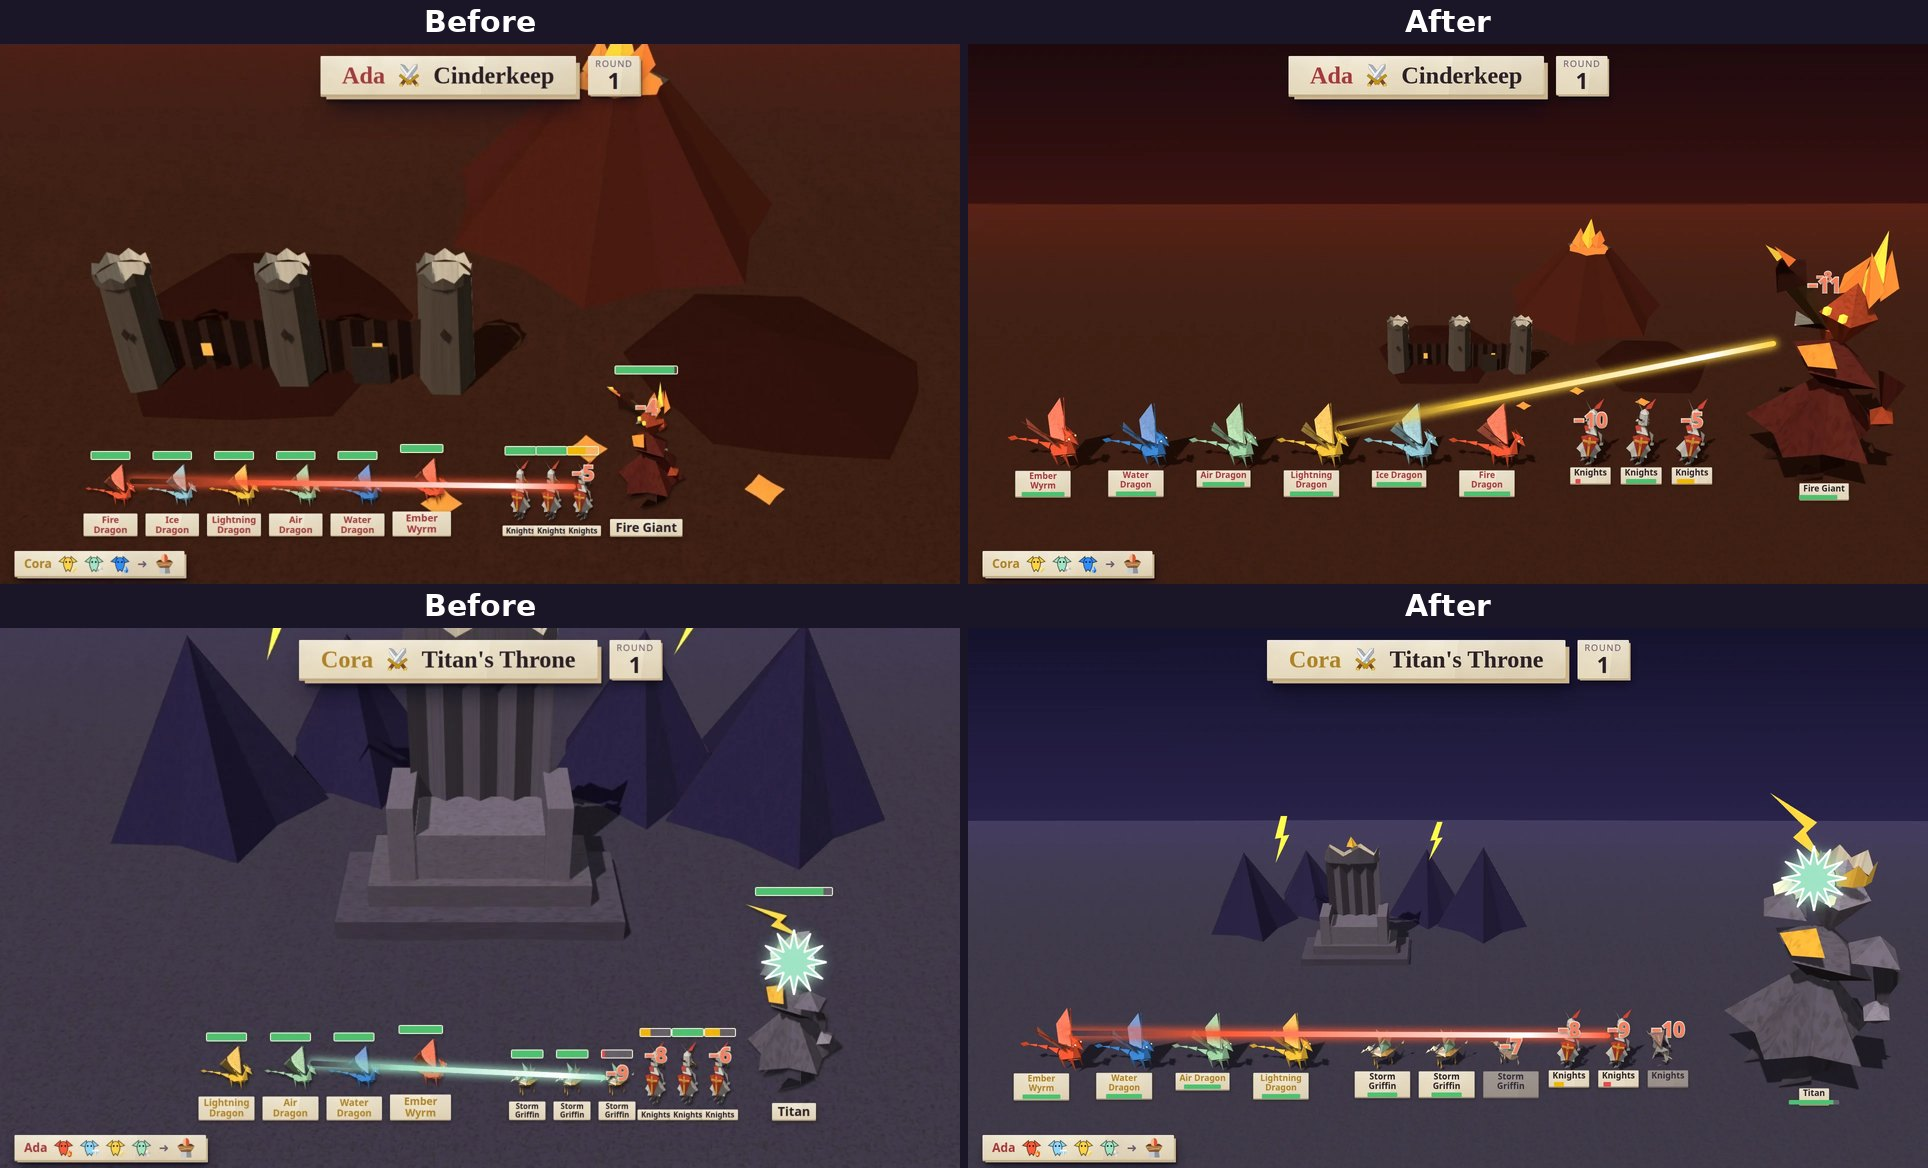
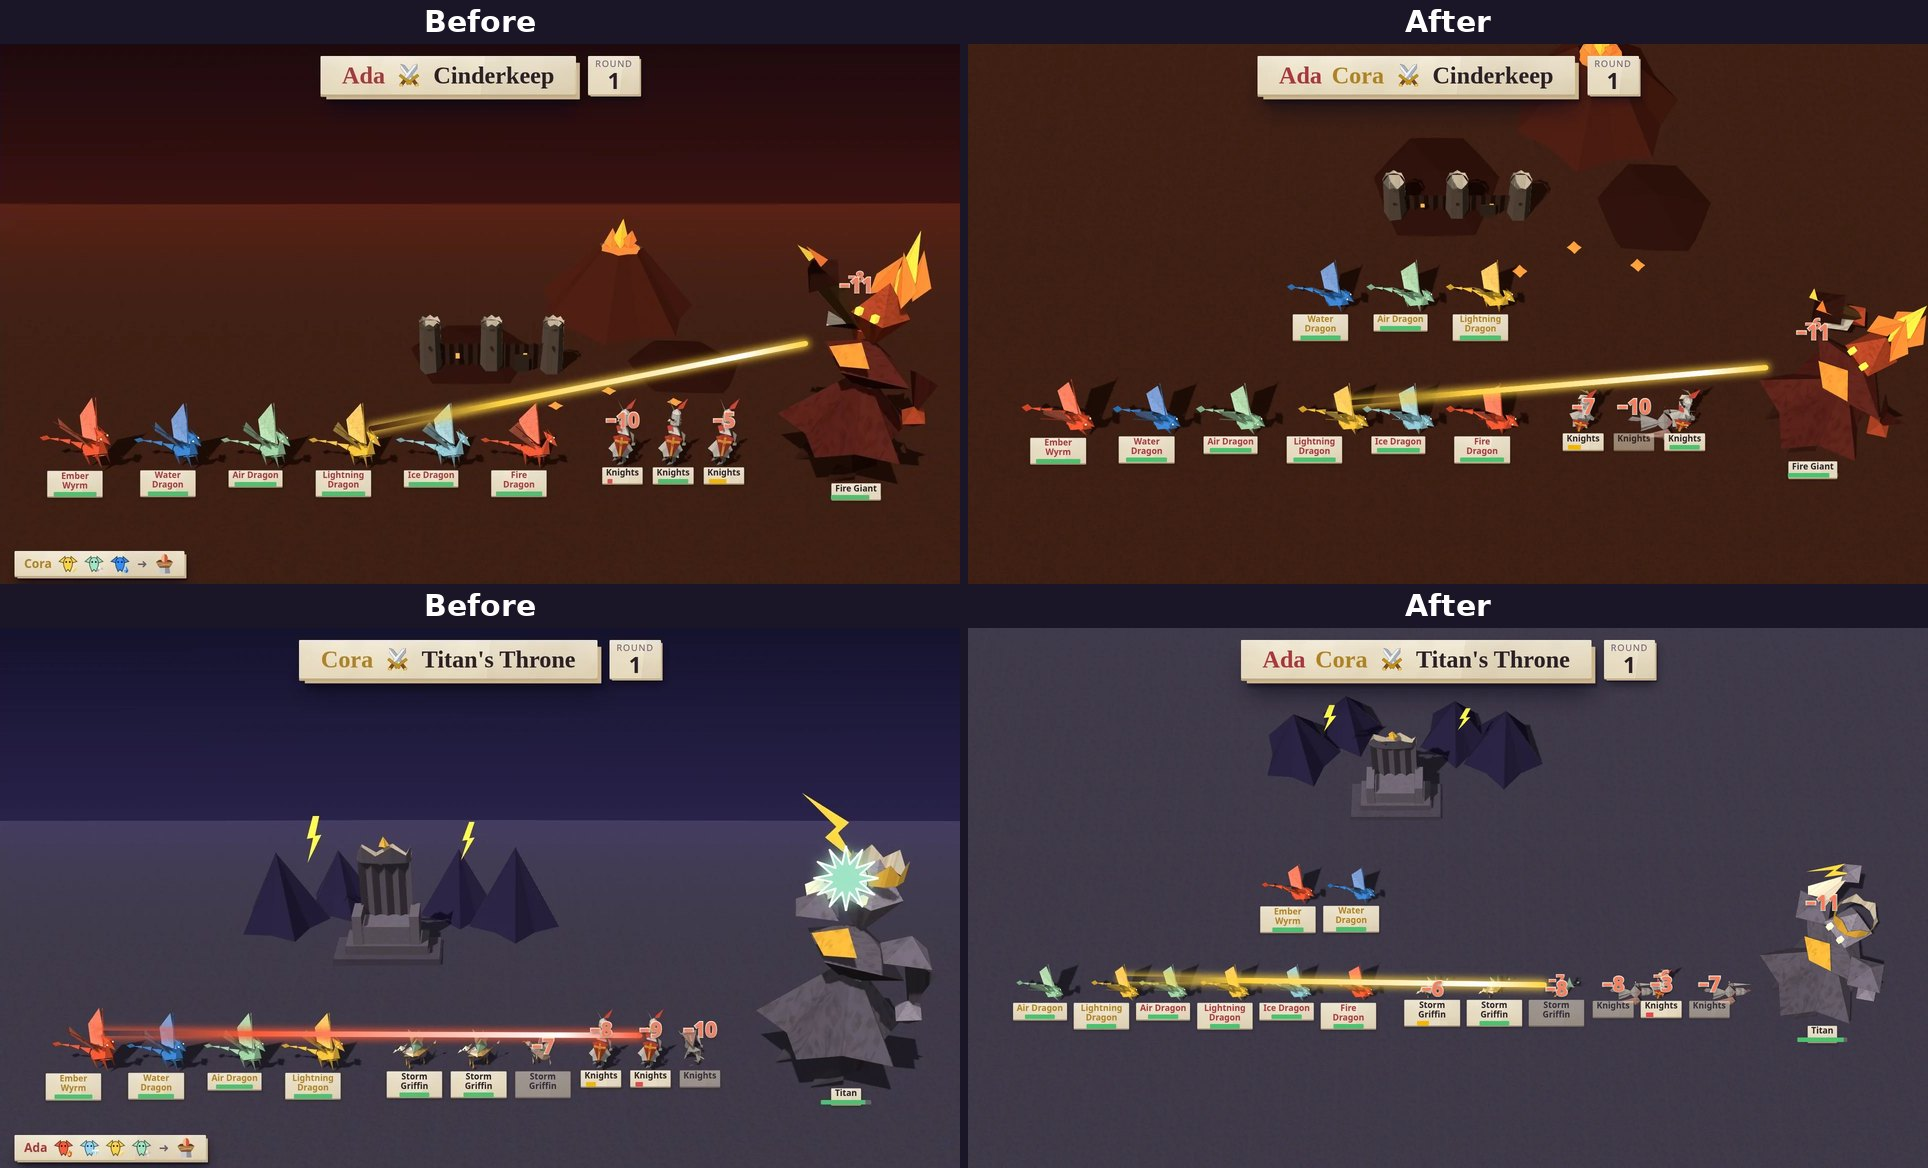
Fight scene: seen through the map's camera, so nothing stands in front of anything
The fight looked down at 36 degrees on a TV; it now uses the map's camera
(its 26-degree view, looking down at CAMERA_TILT) on every screen, as the
board does, so no fighter hides another. Fallen fighters fall sideways,
which reads from above (a boss onto its back); the lines leave room for
the scoring's crowns and the fits for falls.

Claude-Session: https://claude.ai/code/session_01MEmTqG7ANFyPi7sTyCCKbk

diff --git a/web/board3d.ts b/web/board3d.ts
@@ -34,12 +34,8 @@ const GROUND = TOP + PLATE_H; // where a building stands on its plate
 // from top-down. Lower shows more of the models' fronts and
 // sides; straight down would flatten them.
 const CAMERA_TILT = 1.13;
-// How far the fight's camera looks down on a wide screen (radians; about
-// 36 degrees). The map's is CAMERA_TILT; the fight keeps lower, so the
-// places' walls and the fighters' faces still show. On a screen held
-// upright it looks down at CAMERA_TILT, as the map does, so the files going
-// back aren't squashed together.
-const STAGE_TILT = 0.63;
+// The map camera's field of view, up and down (degrees). A fight is seen through the same camera.
+const MAP_FOV = 26;
 
 // Paper colours. Terrain is the phone map's colours, so the two maps match.
 const WALL = '#f1e8d4';
@@ -1850,7 +1846,7 @@ export class Board3D {
   readonly el: HTMLDivElement;
   private renderer: THREE.WebGLRenderer;
   private scene = new THREE.Scene();
-  private camera = new THREE.PerspectiveCamera(26, 16 / 9, 0.1, 200);
+  private camera = new THREE.PerspectiveCamera(MAP_FOV, 16 / 9, 0.1, 200);
   private sun: THREE.DirectionalLight;
   private world = new THREE.Group();
   private mapSig = '';
@@ -3346,6 +3342,7 @@ type Standing = {
 // 3, the Fire Giant 5.4 and the Titan 7: the bosses loom.
 const FIG_K = 1;
 const BOSS_LOOM = 1.35;
+const CROWN_PX = 44; // the crown over a head, at the scoring (style.css .fig-crown)
 const LUNGE_S = 0.3, FLINCH_S = 0.25, FALL_S = 0.5;
 const GREY = new THREE.Color('#8a8790');
 
@@ -3356,8 +3353,9 @@ const GREY = new THREE.Color('#8a8790');
 // stands in lines of up to six across, one behind another, and a boss (four
 // times any other defender's health) at the far end of its front line; on
 // one held upright, in files of up to four going back, side by side, and a
-// boss behind them. The camera looks down at it (STAGE_TILT, or
-// CAMERA_TILT upright) from as far back as lets every fighter, with room
+// boss behind them. It's seen through the map's camera (its field of view,
+// looking down at CAMERA_TILT), so it reads as the board does: nothing
+// stands in front of anything. The camera is as far back as lets every fighter, with room
 // for its plate, fit between `safe.top` and `safe.bottom` (fractions of the
 // height kept clear for the page's header and footer). Labels are the
 // page's (tv.ts), pinned over each model by anchor().
@@ -3365,7 +3363,7 @@ export class FightStage {
   readonly el: HTMLCanvasElement;
   private renderer: THREE.WebGLRenderer;
   private scene = new THREE.Scene();
-  private camera = new THREE.PerspectiveCamera(34, 16 / 9, 0.1, 300);
+  private camera = new THREE.PerspectiveCamera(MAP_FOV, 16 / 9, 0.1, 600);
   private figs = new Map<string, Standing>();
   private clock = new THREE.Clock();
   private sun = new THREE.DirectionalLight('#fff1dc', 3.4);
@@ -3380,14 +3378,10 @@ export class FightStage {
   private left: Standing[] = [];
   private foes: Standing[] = [];
   private boss: Standing | null = null;
-  // How far it looks down: on a screen held upright, as steeply as the map
-  // (the files go back, and a shallower look would squash them together).
-  private tilt: number;
 
   constructor(place: string, left: FightFigure[], right: FightFigure[], upright: boolean, safe: { top: number; bottom: number }) {
     this.upright = upright;
     this.safe = safe;
-    this.tilt = upright ? CAMERA_TILT : STAGE_TILT;
     this.renderer = new THREE.WebGLRenderer({ antialias: true, preserveDrawingBuffer: true });
     this.renderer.setPixelRatio(Math.min(devicePixelRatio, 2));
     this.renderer.shadowMap.enabled = true;
@@ -3515,7 +3509,7 @@ export class FightStage {
       // Behind its files, across the middle of its side.
       const xs = this.foes.map((f) => f.x);
       boss.x = xs.length ? (Math.min(...xs) + Math.max(...xs)) / 2 : 1.2 + boss.rx;
-      boss.z = Math.min(0, ...this.foes.map((f) => f.z - f.rz - f.h / Math.tan(this.tilt) * 0.3)) - boss.rz - boss.label.h * boss.u;
+      boss.z = Math.min(0, ...this.foes.map((f) => f.z - f.rz - f.h / Math.tan(CAMERA_TILT) * 0.3)) - boss.rz - boss.label.h * boss.u;
     }
     const all = [...this.figs.values()];
     const shift = -3 - Math.min(...all.map((f) => f.z - f.rz));
@@ -3534,11 +3528,12 @@ export class FightStage {
     const per = this.upright ? 4 : 6;
     const lines: Standing[][] = [];
     for (let i = 0; i < fs.length; i += per) lines.push(fs.slice(i, i + per));
-    const back = 1 / Math.tan(this.tilt); // how far back a height reaches, looking down
+    const back = 1 / Math.tan(CAMERA_TILT); // how far back a height reaches, looking down
     const GAP = 0.4, MID = 1.2;
     const wide = (f: Standing) => Math.max(2 * f.rx, f.label.w * f.u);
     // Depth on the ground shows on the screen foreshortened, by the tilt's sine.
-    const clear = (fs: Standing[]) => (Math.max(...fs.map((f) => f.label.h * f.u)) * 1.1) / Math.sin(this.tilt) + 0.3;
+    // (A line's plates, and the crowns over the heads in front of them at the scoring.)
+    const clear = (fs: Standing[]) => (Math.max(...fs.map((f) => (f.label.h + CROWN_PX) * f.u)) * 1.1) / Math.sin(CAMERA_TILT) + 0.3;
     if (this.upright) {
       // Ranks line up across the files: each rank as far in front of the
       // one behind as its tallest figure needs to leave that one showing.
@@ -3557,7 +3552,7 @@ export class FightStage {
           f.x = -side * (x + w);
           f.z = zs[k] - front;
         });
-        x += 2 * w + GAP;
+        x += 2 * w + Math.max(GAP, 12 * Math.max(...file.map((f) => f.u)));
       }
     } else {
       let z = 0;
@@ -3566,7 +3561,7 @@ export class FightStage {
         for (const f of line) {
           f.x = -side * (x + wide(f) / 2);
           f.z = z;
-          x += wide(f) + GAP;
+          x += wide(f) + Math.max(GAP, 12 * f.u);
         }
         z -= Math.max(...line.map((f) => f.rz * 2 + f.h * back * 0.7)) + clear(line);
       }
@@ -3611,10 +3606,6 @@ export class FightStage {
   private fit() {
     const { w, h } = this.size;
     const aspect = w / h;
-    // On a screen narrower than the TV's, the view widens (most of the way)
-    // rather than cropping in, so a phone held upright still sees the place.
-    const vfov = aspect >= 1.6 ? 34 : (2 * Math.atan((Math.tan((17 * Math.PI) / 180) * 1.6 * 0.8) / aspect) * 180) / Math.PI;
-    this.camera.fov = Math.max(34, vfov);
     this.camera.aspect = aspect;
     const top = 1 - 2 * this.safe.top, bottom = -1 + 2 * this.safe.bottom;
     this.camera.clearViewOffset();
@@ -3622,9 +3613,9 @@ export class FightStage {
     const at = new THREE.Vector3(
       all.length ? (Math.min(...all.map((f) => f.x - f.rx)) + Math.max(...all.map((f) => f.x + f.rx))) / 2 : 0, 0,
       all.length ? (Math.min(...all.map((f) => f.z - f.rz)) + Math.max(...all.map((f) => f.z + f.rz))) / 2 : 0);
-    const dir = new THREE.Vector3(0, Math.sin(this.tilt), Math.cos(this.tilt));
+    const dir = new THREE.Vector3(0, Math.sin(CAMERA_TILT), Math.cos(CAMERA_TILT));
     // Room over each head for the crown, under its feet for its plate.
-    const over = (2 * 28) / h;
+    const over = (2 * CROWN_PX) / h;
     const v = new THREE.Vector3();
     // How much of the screen the fighters take, up and across, from `d` away.
     const extent = (d: number) => {
@@ -3645,6 +3636,8 @@ export class FightStage {
         lo = Math.min(lo, low - (2 * (f.label.h + 4)) / h);
         v.set(f.x, 0, f.z).project(this.camera);
         wide = Math.max(wide, Math.abs(v.x) + f.label.w / w);
+        // Room to fall, away from the other side (a boss falls back).
+        if (f !== this.boss) wide = Math.max(wide, Math.abs(v.set(f.x - f.side * f.h, 0, f.z).project(this.camera).x));
       }
       return { lo, hi, wide };
     };
@@ -3658,7 +3651,7 @@ export class FightStage {
       if (fits(mid)) hi = mid;
       else lo = mid;
     }
-    const d = Math.max(hi, 16);
+    const d = Math.max(hi, 22);
     // Then moved up or down the screen so what's drawn sits in the middle of the clear band.
     const e = extent(d);
     this.camera.setViewOffset(w, h, 0, (((top + bottom) - (e.hi + e.lo)) / 2) * (h / 2), w, h);
@@ -3696,7 +3689,7 @@ export class FightStage {
   strike(key: string) { const f = this.figs.get(key); if (f) f.strikeAt = this.clock.getElapsedTime(); }
   /** It flinches from a hit. */
   hit(key: string) { const f = this.figs.get(key); if (f) f.hitAt = this.clock.getElapsedTime(); }
-  /** It falls over onto its back, and greys. */
+  /** It falls over, away from the other side (a boss onto its back), and greys. */
   fall(key: string) { const f = this.figs.get(key); if (f && f.downAt < 0) f.downAt = this.clock.getElapsedTime(); }
 
   private frame() {
@@ -3710,10 +3703,12 @@ export class FightStage {
       const dn = f.downAt < 0 ? 0 : Math.min(1, (t - f.downAt) / FALL_S);
       const fall = dn * dn * (3 - 2 * dn);
       f.obj.position.set(f.x + f.side * (lunge - flinch * 0.15 * f.r), 0, f.z);
-      // Tipped back from the other side by a flinch; laid on its back by a
-      // fall, away from the room, so it falls on no one.
-      f.obj.rotation.z = f.side * flinch * 0.12;
-      f.obj.rotation.x = -fall * 1.45;
+      // Tipped back from the other side by a flinch; laid on its side by a
+      // fall, away from the other side, which reads from above. A boss falls
+      // onto its back instead, so it doesn't fall off the screen or onto its own.
+      const big = f === this.boss;
+      f.obj.rotation.z = f.side * (flinch * 0.12 + (big ? 0 : fall * 1.45));
+      f.obj.rotation.x = big ? -fall * 1.45 : 0;
       if (f.downAt >= 0 && dn <= 1) for (const { m, c } of f.mats) m.color.copy(c).lerp(GREY, fall * 0.7);
     }
     this.renderer.render(this.scene, this.camera);
